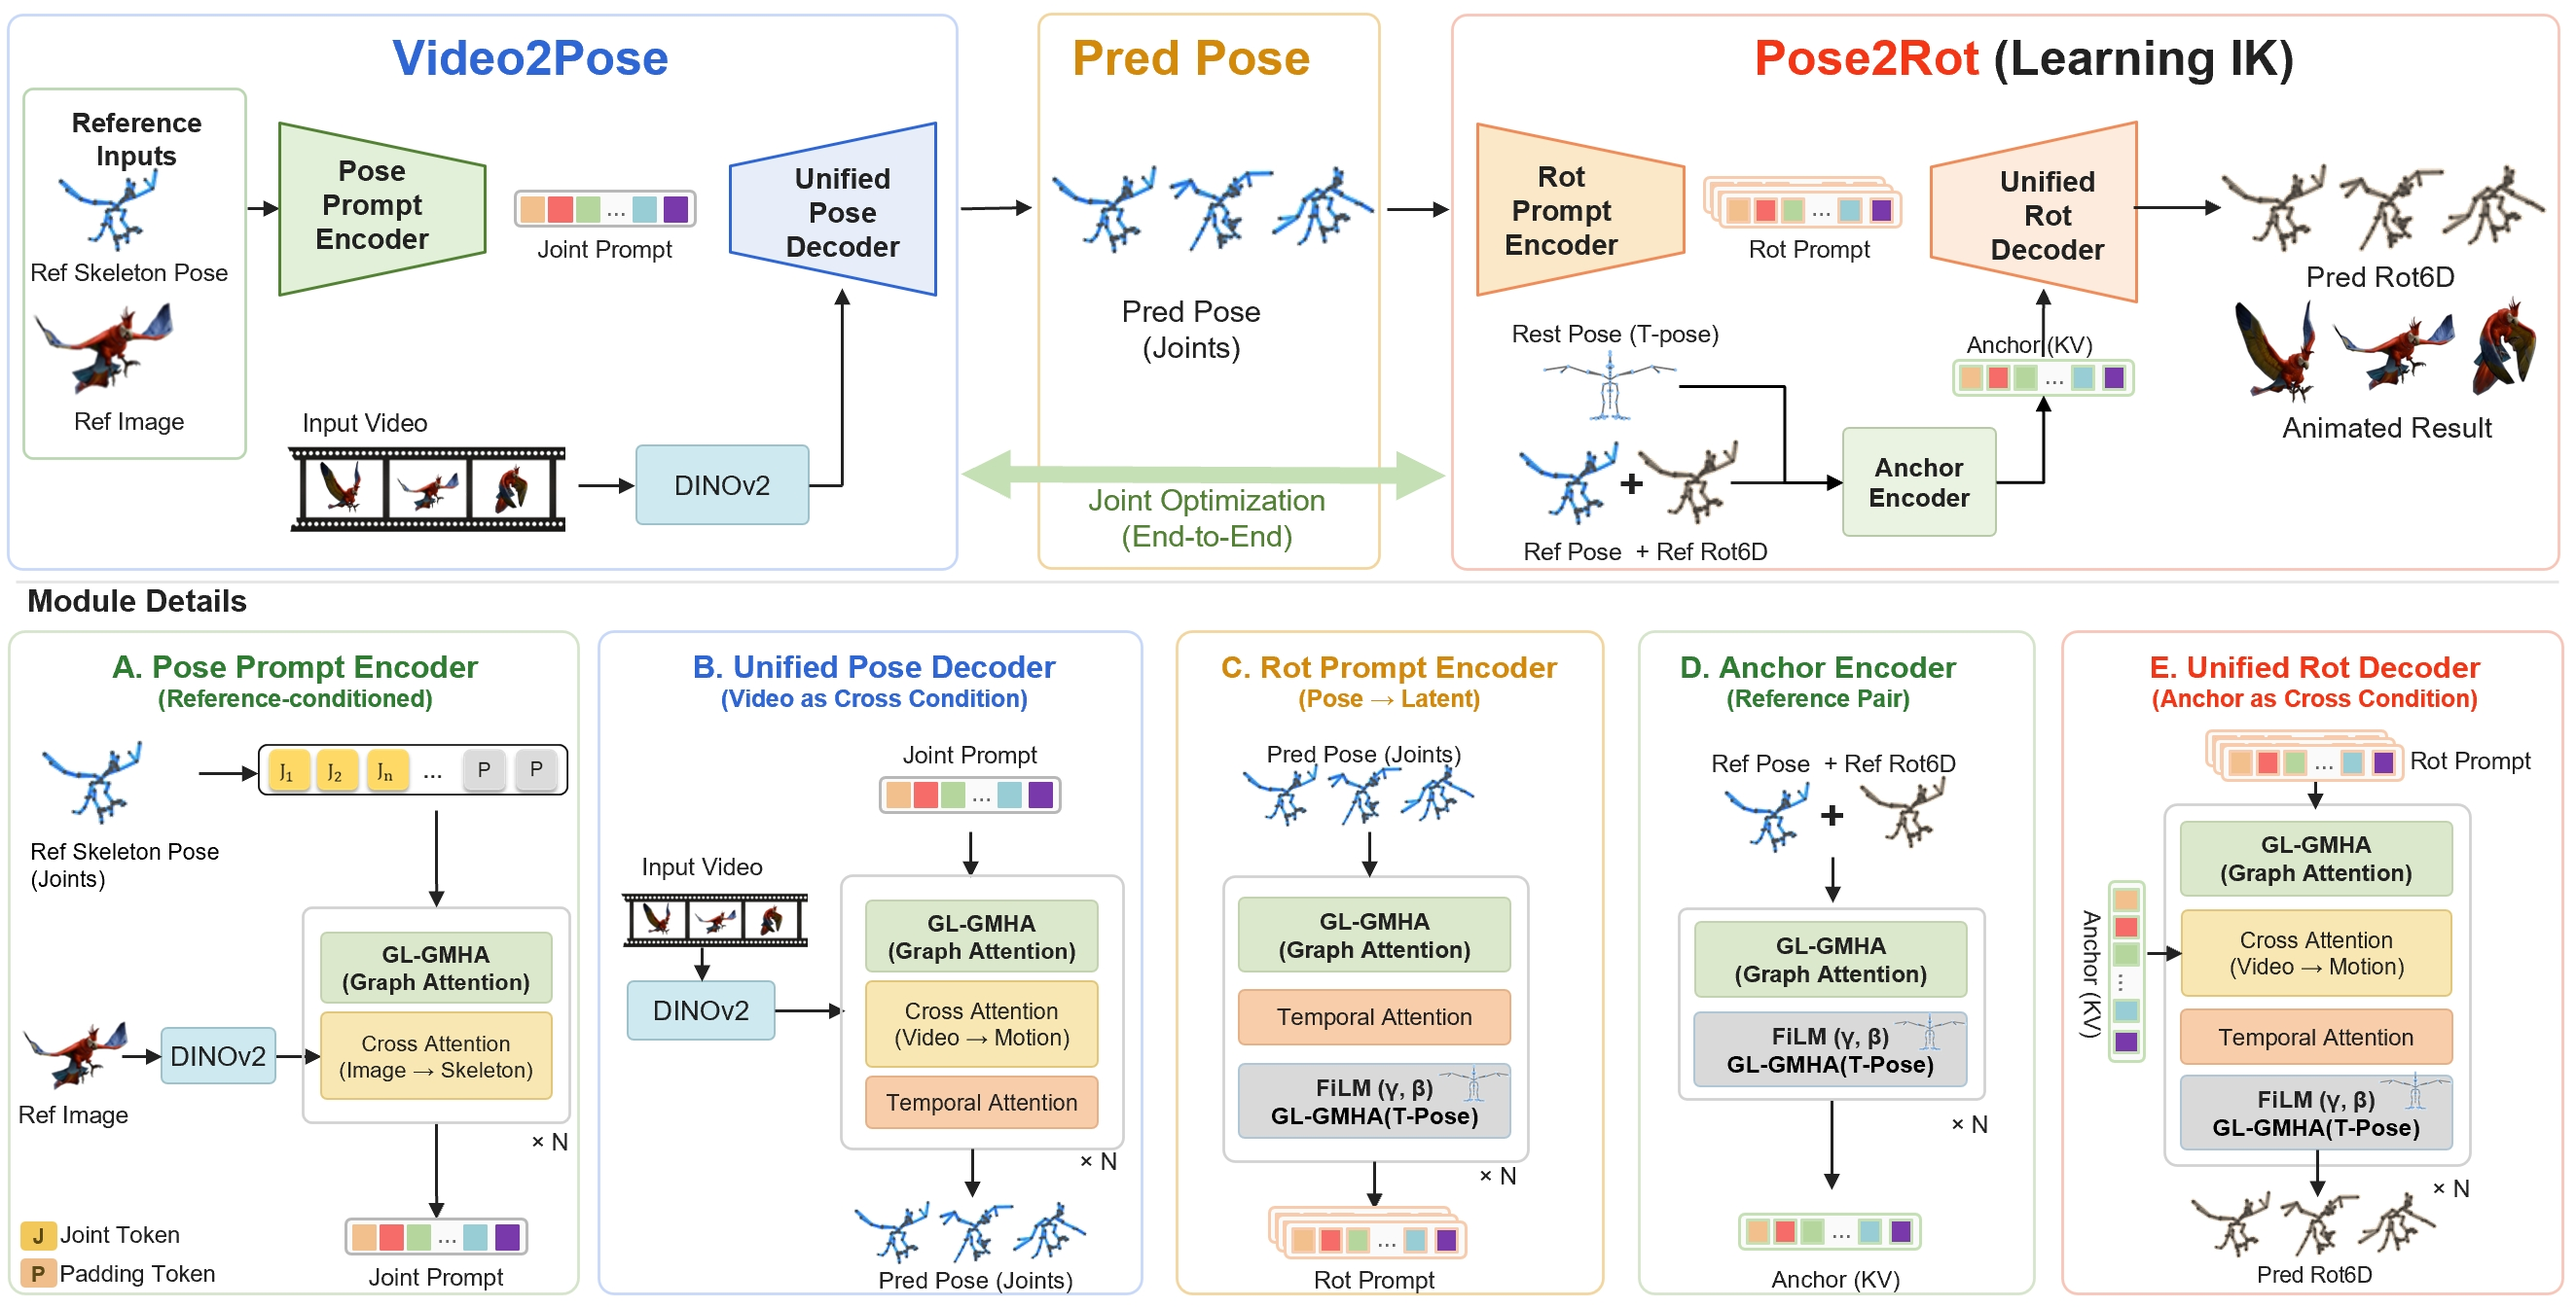
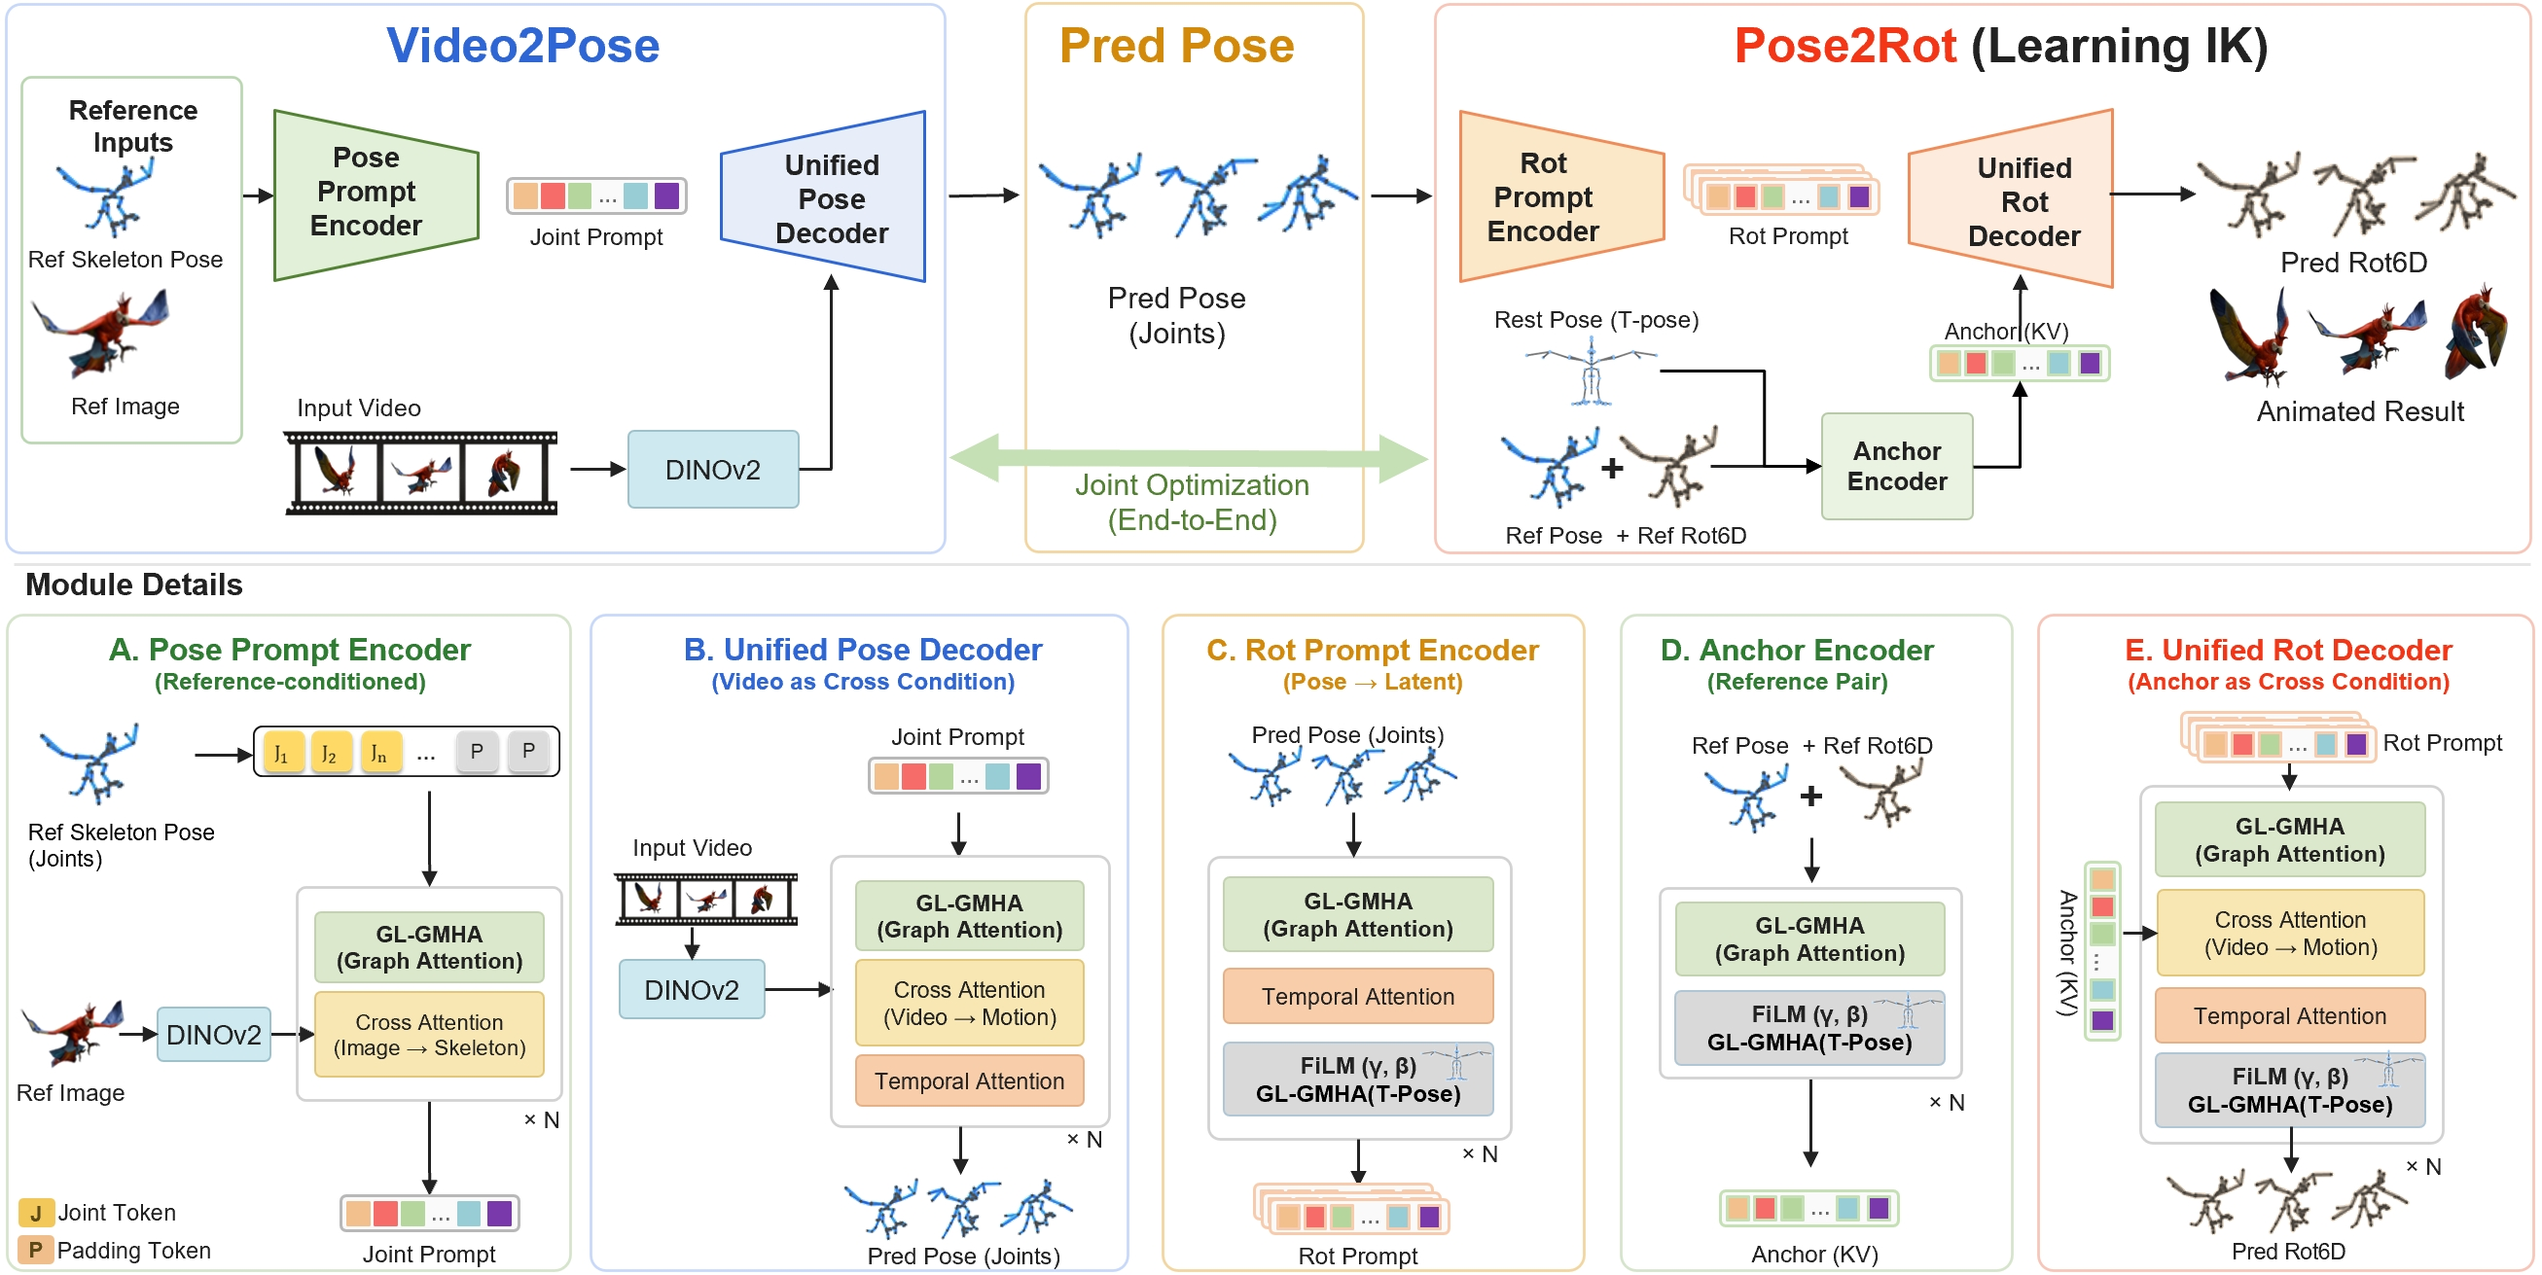
Restructure Method section and add V1 vs V2 comparison figure
- Group Overview, V1 vs V2, and Framework under a single Method heading
- Add difference_V1V2 figure with caption between Overview and Framework
- Update Overview caption to match the teaser caption from the paper
- Rename top nav "Video" to "Quick View" and simplify Method nav
- Add Acknowledgement section referencing the Nerfies project page
- Fill in BibTeX with the full author list (arXiv id pending)

diff --git a/src/App.tsx b/src/App.tsx
@@ -197,14 +197,13 @@ const FriendlyDesc: FC<{ children: ReactNode }> = ({ children }) => (
 // ---------------------------------------------------------------------------
 
 const NAV_LINKS = [
-  { href: "#video",         label: "Video" },
+  { href: "#video",         label: "Quick View" },
   { href: "#abstract",      label: "Abstract" },
-  { href: "#overview",      label: "Overview" },
-  { href: "#framework",     label: "Framework" },
+  { href: "#method",        label: "Method" },
   { href: "#demo",          label: "MoCapAnything" },
   { href: "#dance",         label: "Dance Anything" },
   { href: "#one2many",      label: "Retarget Anything" },
-  { href: "#mocap-compare", label: "V1 vs. V2" },
+  { href: "#mocap-compare", label: "V1 vs. V2 Results" },
 ];
 
 const StickyNav: FC = () => (
@@ -375,21 +374,38 @@ const AbstractSection: FC = () => (
 const MethodSection: FC = () => (
   <section id="method" className="section">
     <div className="container has-text-centered">
-      <h2 id="overview" className="title is-3">Overview</h2>
+      <h2 className="title is-3">Method</h2>
+
+      <h3 id="overview" className="title is-4" style={{ marginTop: "2rem" }}>Overview</h3>
       <img
         style={{ width: "80%" }}
         src="assets/figure/teaser.png"
         alt="MoCapAnything V2 Overview"
       />
       <FriendlyDesc>
-        Overview of MoCapAnything V2. Unlike V1, which depends on mesh-conditioned
+        Overview of MoCapAnything V2. Given an input video of a human or an animal, our
+        method infers a topology-agnostic skeleton sequence across diverse skeleton
+        topologies. Conditioned on a reference asset, the model predicts animation-ready
+        rotations via an end-to-end framework, enabling the reference asset to perform
+        the input motion.
+      </FriendlyDesc>
+
+      <h3 id="comparison" className="title is-4" style={{ marginTop: "3rem" }}>V1 vs V2</h3>
+      <img
+        style={{ width: "80%" }}
+        src="assets/figure/difference_V1V2.png"
+        alt="MoCapAnything V1 vs V2 Comparison"
+      />
+      <FriendlyDesc>
+        Comparison of MoCapAnything V1 and V2. Unlike V1, which depends on mesh-conditioned
         video-to-pose estimation and analytical inverse kinematics (IK) for rotation
         recovery, V2 eliminates mesh conditioning and introduces a fully learnable
         Pose2Rot module. The entire pipeline is optimized end-to-end, enabling
         bidirectional coupling between pose and rotation for improved robustness and
         animation-ready motion synthesis.
       </FriendlyDesc>
-      <h2 id="framework" className="title is-3" style={{ marginTop: "3rem" }}>Framework</h2>
+
+      <h3 id="framework" className="title is-4" style={{ marginTop: "3rem" }}>Framework</h3>
       <img
         style={{ width: "80%" }}
         src="assets/figure/framework.png"
@@ -653,7 +669,15 @@ const DanceSection: FC = () => (
 // CitationSection
 // ---------------------------------------------------------------------------
 
-const BIBTEX = `Placeholder`;
+const BIBTEX = `@article{gong2026mocapanythingv2,
+  title   = {MoCapAnything V2: End-to-End Motion Capture for Arbitrary Skeletons},
+  author  = {Gong, Kehong and Wen, Zhengyu and Phong, Dao Thien and
+             Xu, Mingxi and He, Weixia and Wang, Qi and Zhang, Ning and
+             Li, Zhengyu and Hou, Guanli and Lian, Dongze and He, Xiaoyu and
+             Zhang, Mingyuan and Zhang, Hanwang},
+  journal = {arXiv preprint arXiv:xxxx.xxxxx},
+  year    = {2026}
+}`;
 
 const CitationSection: FC = () => (
   <section className="section">
@@ -679,6 +703,23 @@ const CitationSection: FC = () => (
 );
 
 // ---------------------------------------------------------------------------
+// AcknowledgementSection
+// ---------------------------------------------------------------------------
+
+const AcknowledgementSection: FC = () => (
+  <section className="section">
+    <div className="container has-text-centered">
+      <h2 className="title is-4">Acknowledgement</h2>
+      <p className="friendly-desc" style={{ textAlign: "center", width: "70%", marginTop: 15 }}>
+        We referred to the project page of{" "}
+        <a href="https://nerfies.github.io/" target="_blank" rel="noopener noreferrer">Nerfies</a>
+        {" "}when creating this project page.
+      </p>
+    </div>
+  </section>
+);
+
+// ---------------------------------------------------------------------------
 // App
 // ---------------------------------------------------------------------------
 
@@ -697,6 +738,7 @@ export default function App() {
       <OneToManySection />
       <PerAnimalSection />
       <CitationSection />
+      <AcknowledgementSection />
     </div>
   );
 }
